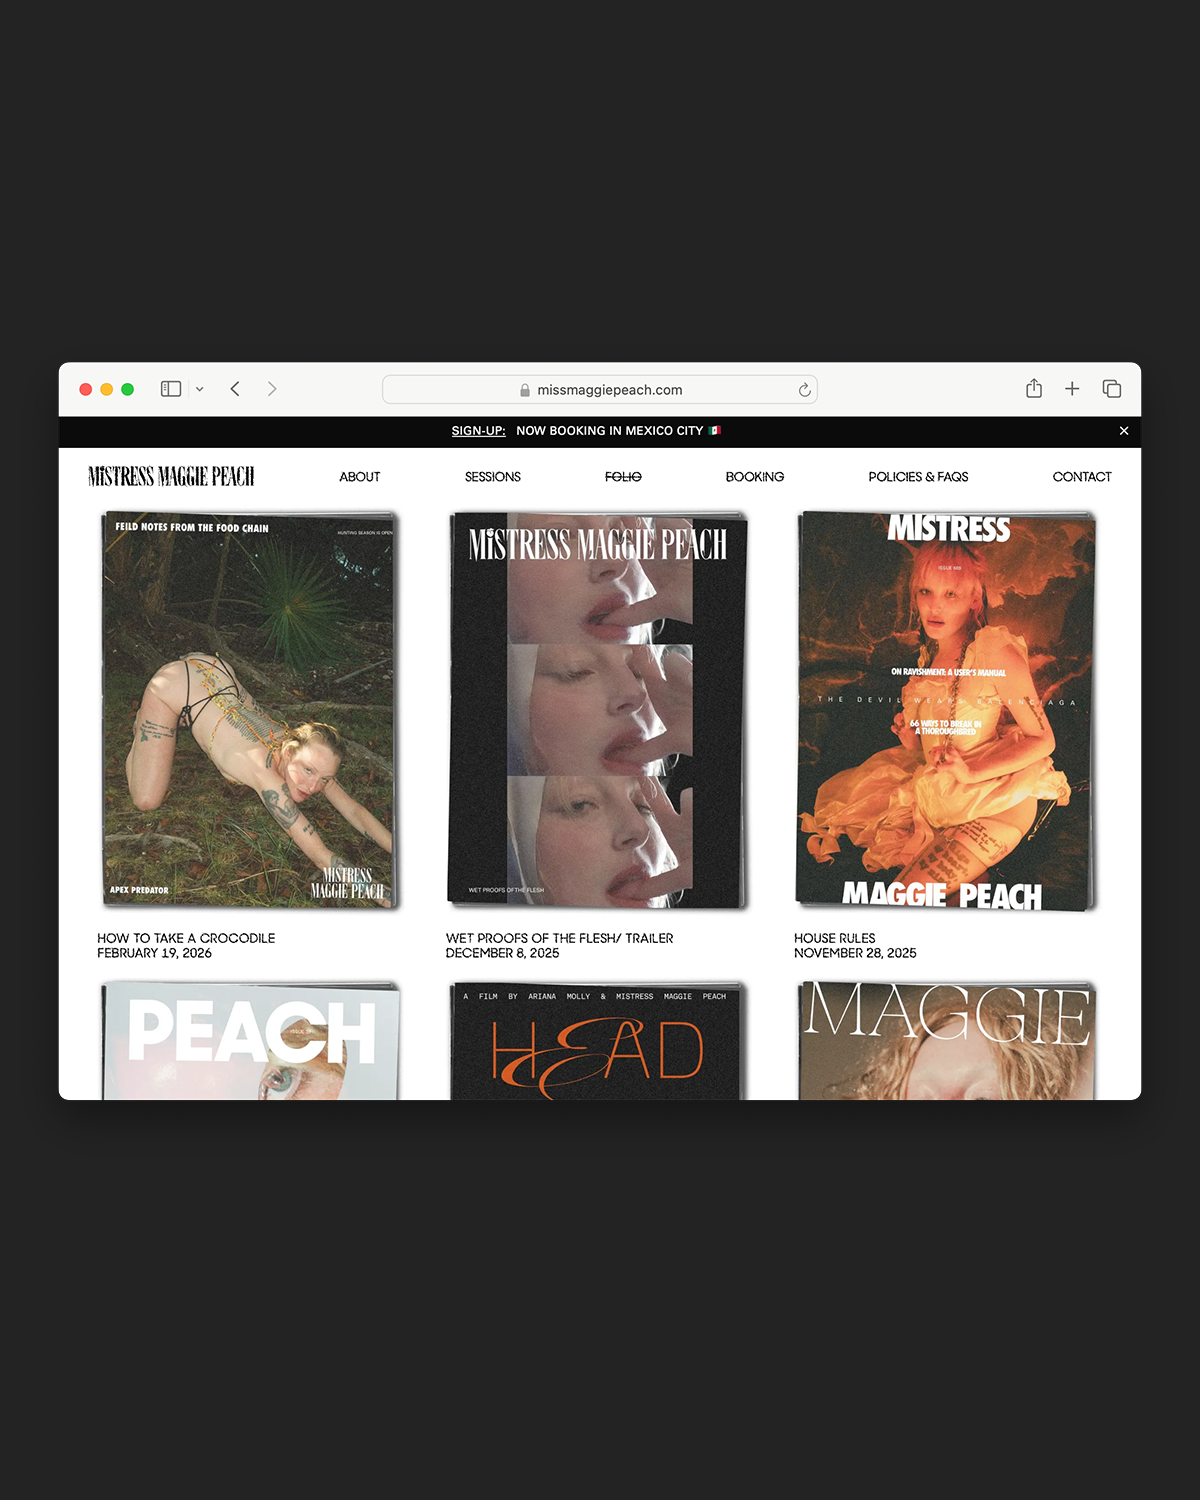
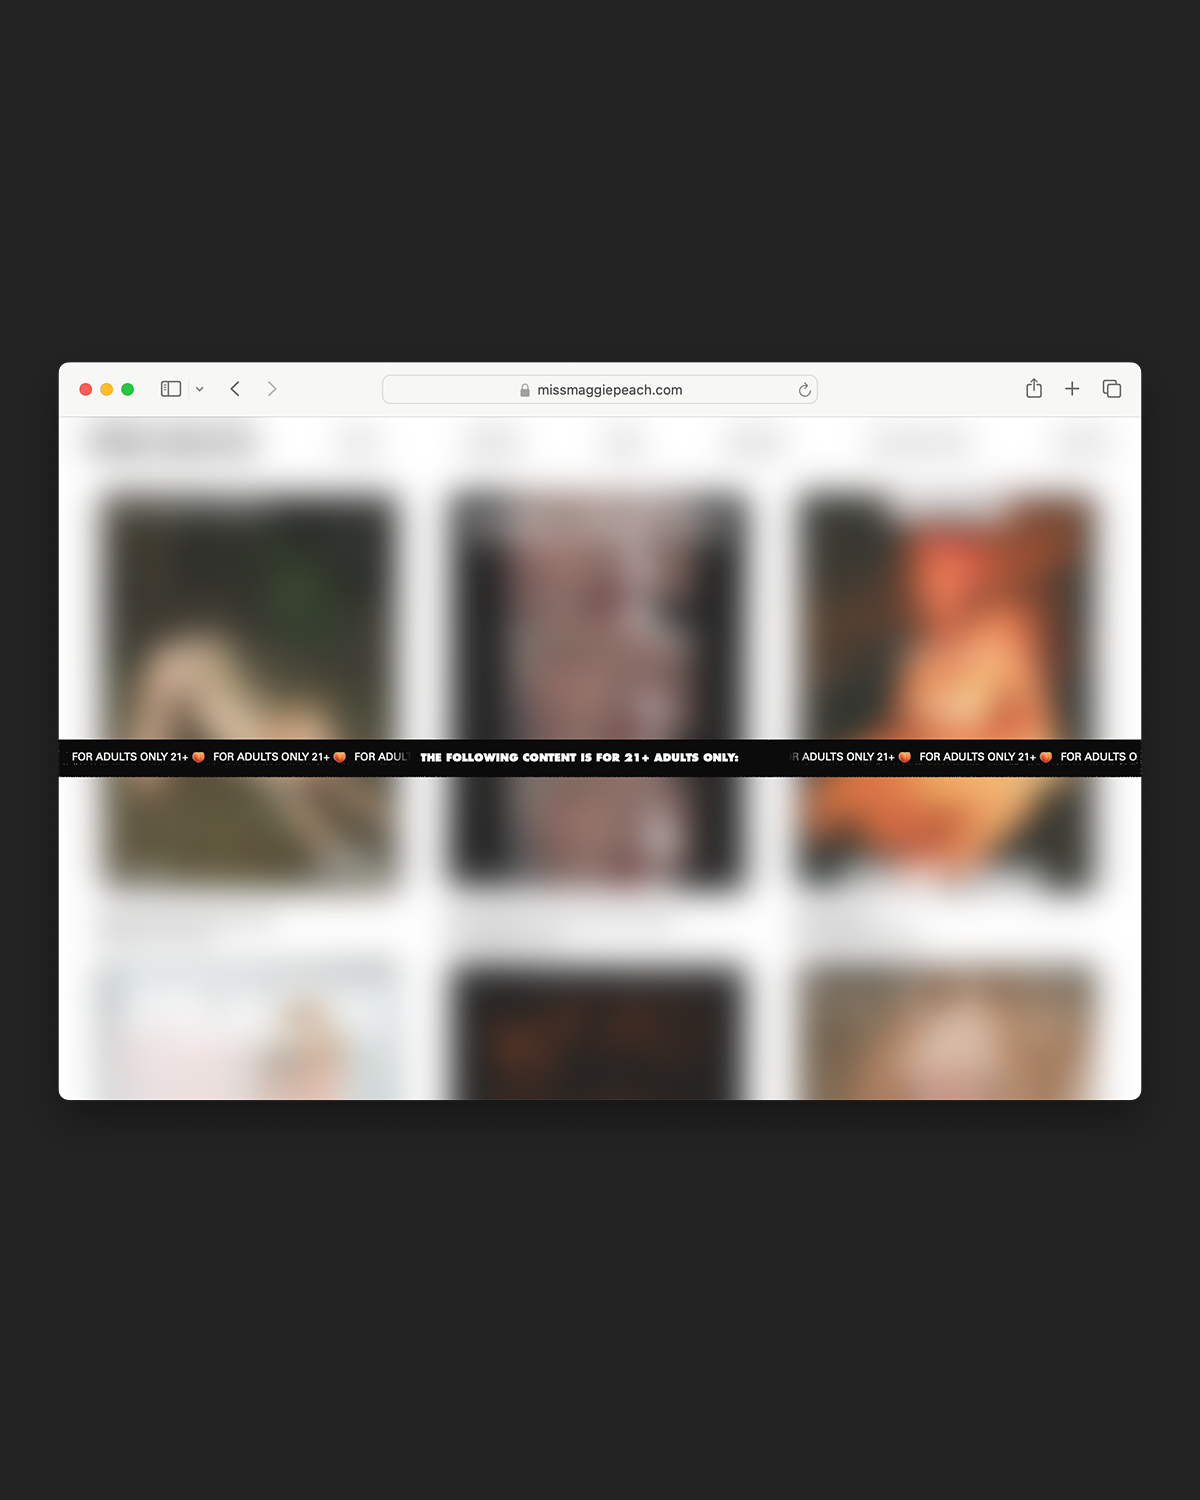
Update image names and nav

Changed region(s): [[0.0308, 0.276, 0.9558, 0.736]]

diff --git a/src/components/OtherWorkNav.tsx b/src/components/OtherWorkNav.tsx
@@ -6,16 +6,13 @@ import { useLocale } from "../lib/useLocale";
 import type { TranslationKey } from "../lib/i18n";
 
 const linkClasses =
-  "relative inline-block whitespace-nowrap z-20 p-0.5 transform transition-all duration-200 cursor-pointer mr-3";
+  "relative inline-block whitespace-nowrap z-20 p-0.5 transform transition-all duration-200 mr-3";
 
 const workLinks = [
-  // { to: "/maggie-peach", label: "Maggie Peach" },
   { to: "/personal-artwork", label: "Personal Artwork" },
   { to: "/ermitage-308", label: "Ermitage 308" },
   { to: "/eolith", label: "Eolith" },
   { to: "/set-technician", label: "Art Department Technician" },
-  //   { to: "/material-matters", label: "Material Matters" },
-  //   { to: "/danse-cite", label: "Danse-Cité" },
 ];
 
 // let hasOtherWorkNavAppeared = false;
@@ -33,23 +30,30 @@ export default function OtherWorkNav() {
   const renderColumn = (titleKey: TranslationKey, className = "") => (
     <motion.div className={`flex flex-col flex-wrap flex-1 items-start ${className}`}>
       <motion.h1 className="font-bold">{t(titleKey)}</motion.h1>
-      {workLinks.map(({ to, label }, i) => {
-        const isHovered = hoveredTo === to;
-        return (
-          <NavLink
-            key={to}
-            to={to}
-            onMouseEnter={() => setHoveredTo(to)}
-            onMouseLeave={() => setHoveredTo(null)}
-            style={{ "--tw-rotate": `${numbers[i]}deg` } as React.CSSProperties}
-            className={`${linkClasses} ${
-              isHovered ? "bg-red-500 text-white rotate-[var(--tw-rotate)]" : ""
-            }`}
-          >
-            → {label}
-          </NavLink>
-        );
-      })}
+      {workLinks.map(({ to, label }, i) => (
+        <NavLink
+          key={to}
+          to={to}
+          onMouseEnter={() => setHoveredTo(to)}
+          onMouseLeave={() => setHoveredTo(null)}
+          style={{ "--tw-rotate": `${numbers[i]}deg` } as React.CSSProperties}
+          className={({ isActive }) => {
+            const isHovered = hoveredTo === to;
+
+            return `${linkClasses} ${
+              isActive
+                ? isHovered
+                  ? "cursor-not-allowed"
+                  : ""
+                : isHovered
+                ? "bg-red-500 text-white cursor-pointer rotate-[var(--tw-rotate)]"
+                : ""
+            }`;
+          }}
+        >
+          → {label}
+        </NavLink>
+      ))}
     </motion.div>
   );
 

diff --git a/src/components/WorkNav.tsx b/src/components/WorkNav.tsx
@@ -6,7 +6,7 @@ import { useLocale } from "../lib/useLocale";
 import type { TranslationKey } from "../lib/i18n";
 
 const linkClasses =
-  "relative inline-block whitespace-nowrap z-20 p-0.5 transform transition-all duration-200 cursor-pointer mr-3";
+  "relative inline-block whitespace-nowrap z-20 p-0.5 transform transition-all duration-200 mr-3";
 
 const workLinks = [
   { to: "/maggie-peach", label: "Maggie Peach" },
@@ -24,23 +24,30 @@ export default function WorkNav() {
   const renderColumn = (titleKey: TranslationKey, className = "") => (
     <motion.div className={`flex flex-col flex-wrap flex-1 items-start ${className}`}>
       <motion.h1 className="font-bold">{t(titleKey)}</motion.h1>
-      {workLinks.map(({ to, label }, i) => {
-        const isHovered = hoveredTo === to;
-        return (
-          <NavLink
-            key={to}
-            to={to}
-            onMouseEnter={() => setHoveredTo(to)}
-            onMouseLeave={() => setHoveredTo(null)}
-            style={{ "--tw-rotate": `${numbers[i]}deg` } as React.CSSProperties}
-            className={`${linkClasses} ${
-              isHovered ? "bg-red-500 text-white rotate-[var(--tw-rotate)]" : ""
-            }`}
-          >
-            → {label}
-          </NavLink>
-        );
-      })}
+      {workLinks.map(({ to, label }, i) => (
+  <NavLink
+    key={to}
+    to={to}
+    onMouseEnter={() => setHoveredTo(to)}
+    onMouseLeave={() => setHoveredTo(null)}
+    style={{ "--tw-rotate": `${numbers[i]}deg` } as React.CSSProperties}
+    className={({ isActive }) => {
+      const isHovered = hoveredTo === to;
+      
+      return `${linkClasses} ${
+        isActive
+          ? isHovered
+            ? "cursor-not-allowed"
+            : ""
+          : isHovered
+          ? "bg-red-500 text-white cursor-pointer rotate-[var(--tw-rotate)]"
+          : ""
+      }`;
+    }}
+  >
+    → {label}
+  </NavLink>
+))}
     </motion.div>
   );
 
